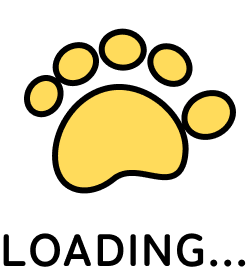
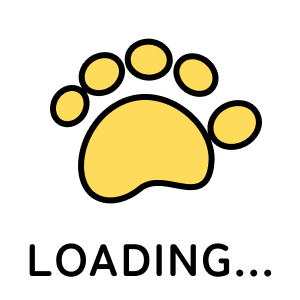
feat: update

Changed region(s): [[0.0847, 0.0857, 0.9597, 0.7143], [0.0, 0.8, 0.9315, 0.9714], [0.9597, 0.9143, 0.9879, 0.9714]]

diff --git a/src/pages/loading/main.js b/src/pages/loading/main.js
@@ -1,11 +1,37 @@
-import React from 'react';
+import React, { useEffect } from 'react';
 
-import LoadingImg from './img/loading.png';
+import LoadingImg01 from './img/loading.png';
+import LoadingImg02 from './img/starting.png';
 
 const Loading = () => {
+  const [loadingPercent, setLoadingPercent] = React.useState(0);
+  const [loadingImg, setLoadingImg] = React.useState(LoadingImg01);
+
+  useEffect(() => {
+    // 10秒，然後第10秒停留在80%，不再增加
+    let count = 0;
+    const timer = setInterval(() => {
+      count += 1;
+      setLoadingPercent(count);
+
+      if (count === 50) {
+        // clearInterval(timer);
+        setLoadingImg(LoadingImg02);
+
+        if (count === 100) {
+          clearInterval(timer);
+        }
+      }
+    }, 100);
+  }, []);
+
   return (
     <div className="loading-bg">
-      <img src={LoadingImg} alt="Loading" />
+      <img src={loadingImg} alt="Loading" />
+
+      <div class="loading-bar">
+        <span style={{ width: `${loadingPercent}%` }}></span>
+      </div>
     </div>
   );
 }
